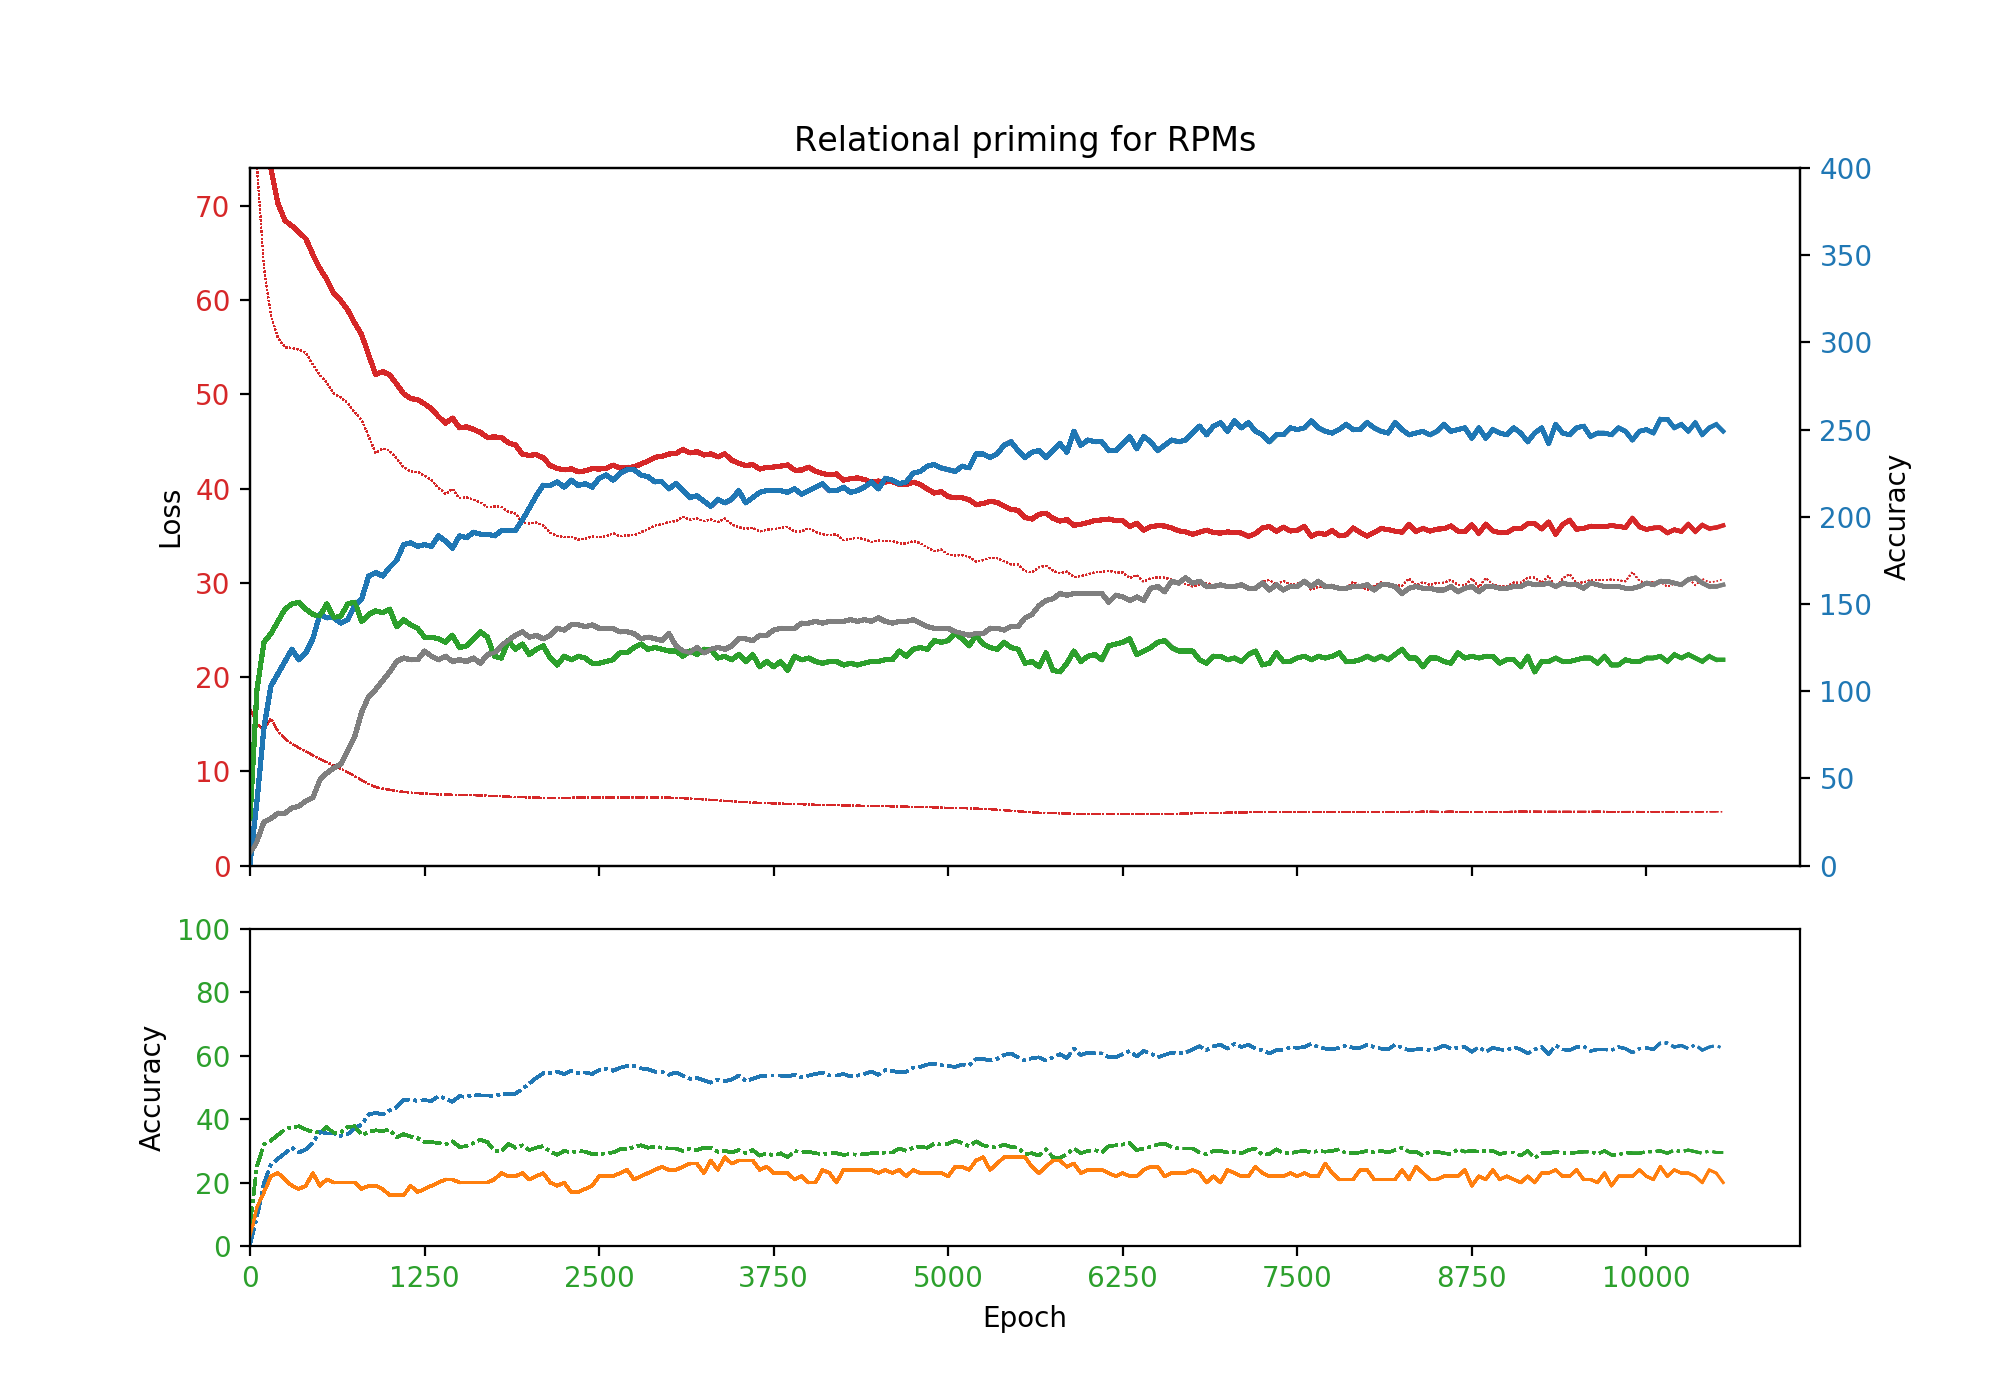
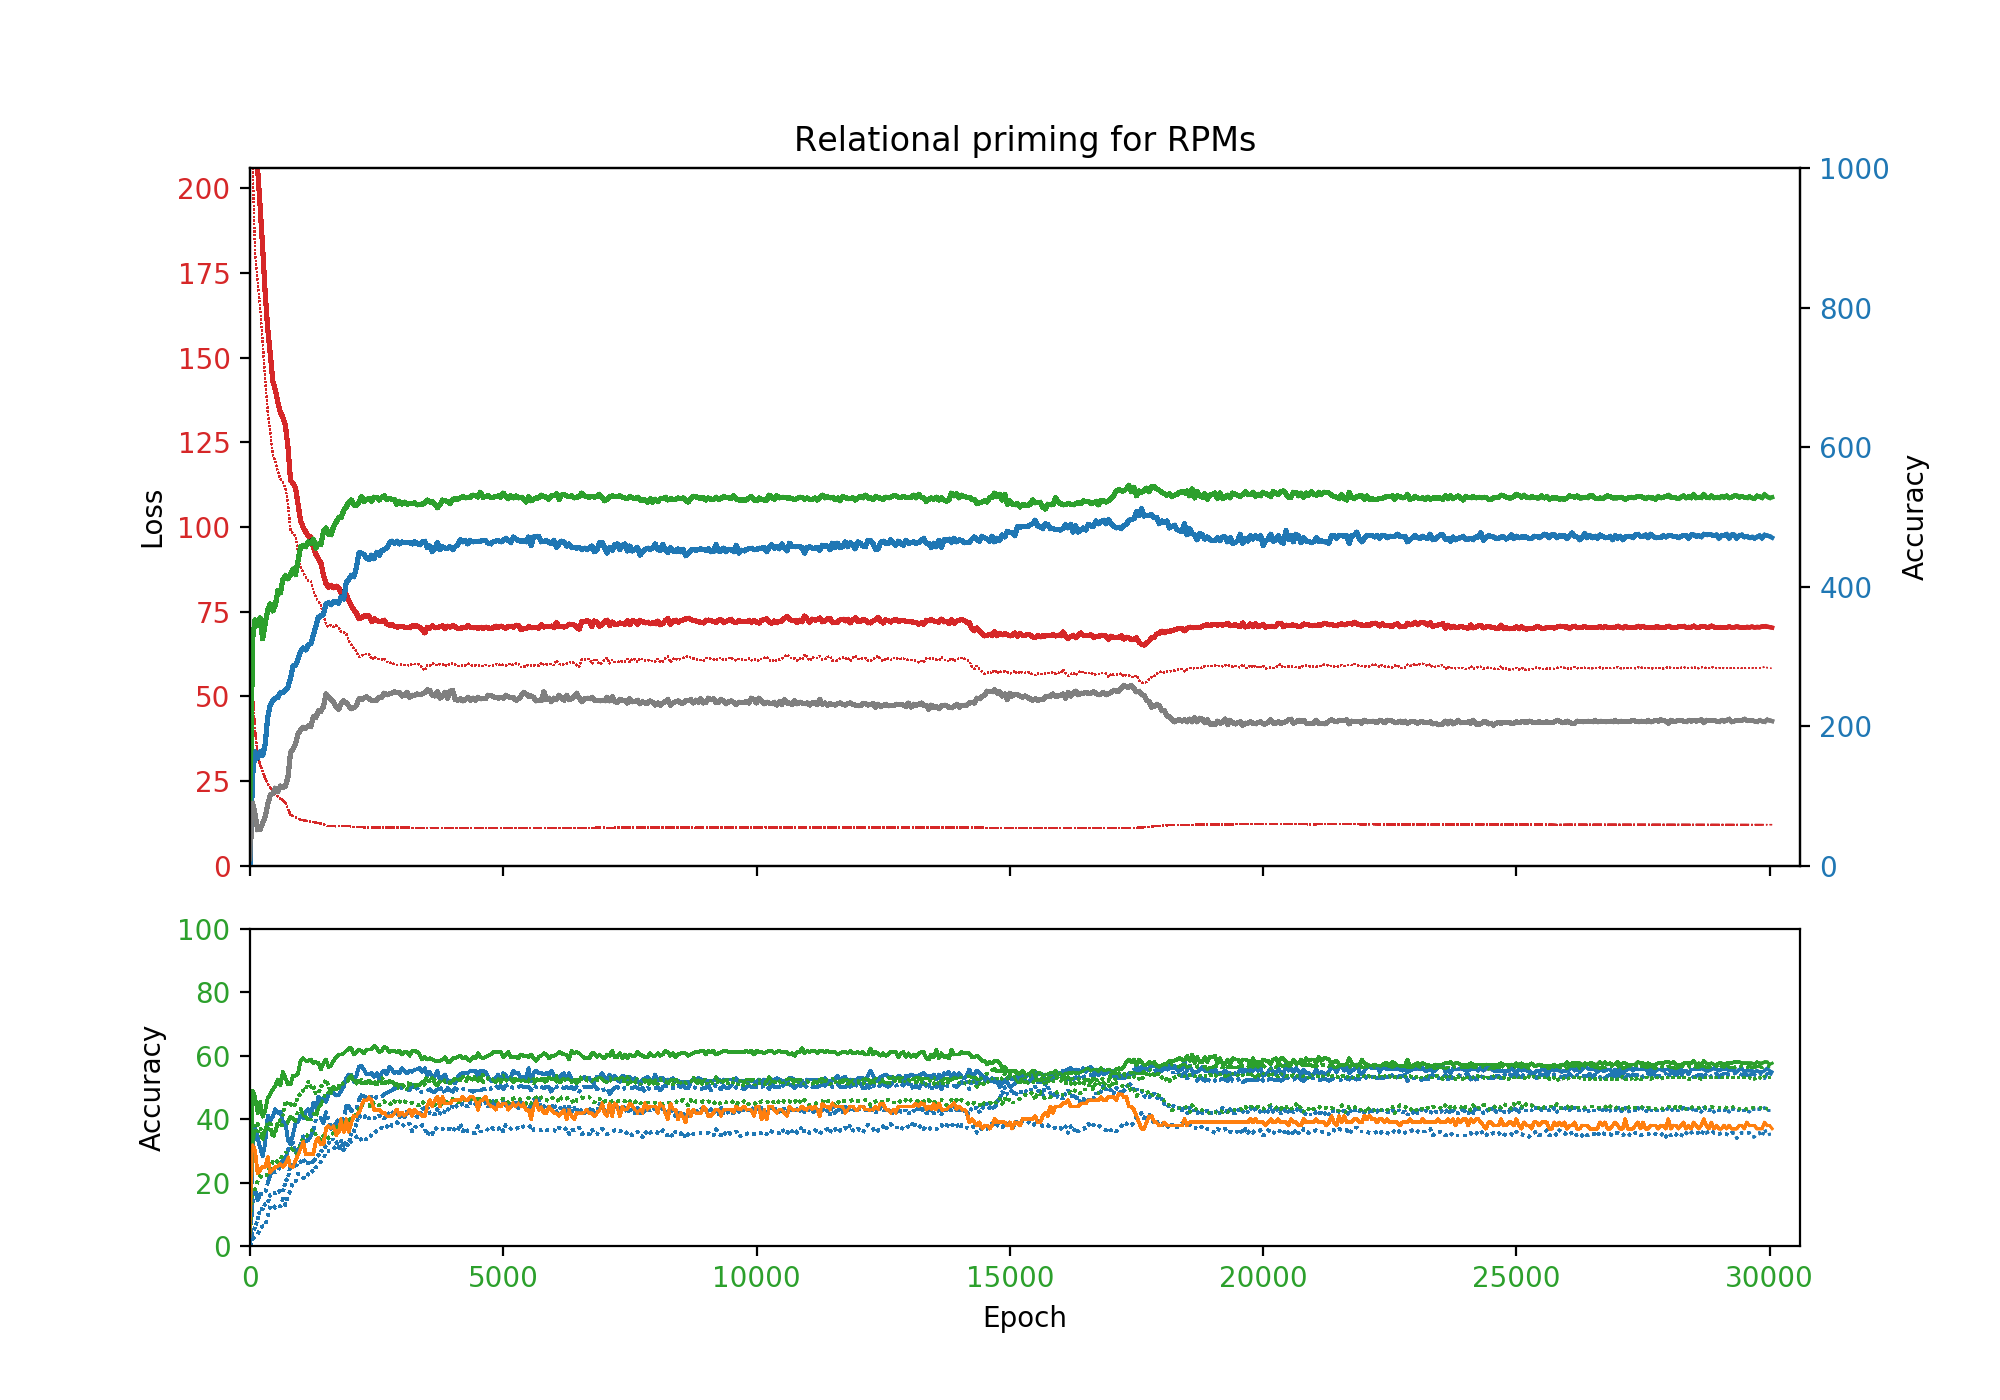
First attempt with multiple modification types.

diff --git a/RPM.py b/RPM.py
@@ -250,14 +250,14 @@ def collect_statistics(network: Network, E: np.ndarray, P: np.ndarray, A: np.nda
 
         for i, x in enumerate(num_correct_by_transformation):
             label = f'tby{i}'
-            data[label].append(e_analogies_by_num_modifications[i])
-            is_max_num_correct_by_transformation[i] = num_correct_by_transformation[i] > 0 and num_correct_by_transformation[i] == min(data[label])
+            data[label].append(num_correct_by_transformation[i])
+            is_max_num_correct_by_transformation[i] = num_correct_by_transformation[i] > 0 and num_correct_by_transformation[i] == max(data[label])
 
         correct_by_num_modifications = [f'{color_on(Fore.GREEN, x[2])}{x[0]}{color_off()}/{x[1]} {color_on(Fore.GREEN, x[2])}{100*x[0]/x[1] if x[1] > 0 else 0:.1f}%{color_off()}' for x in zip(num_correct_by_num_modifications, num_total_patterns_by_num_modifications, is_max_num_correct_by_num_modifications)]
         analogies_by_num_modifications = [f'{color_on(Fore.GREEN, x[2])}{x[0]}{color_off()}/{x[1]} {color_on(Fore.GREEN, x[2])}{100*x[0]/x[1] if x[1] > 0 else 0:.1f}%{color_off()}' for x in zip(num_analogies_correct_by_num_modifications, num_total_patterns_by_num_modifications, is_max_num_analogies_correct_by_num_modifications)]
         loss_by_num_modifications = [f'{color_on(Fore.RED, x[1])}{x[0]:.3f}{color_off()}' for x in zip(e_by_num_modifications, is_min_e_by_num_modifications)]
         loss_analogies_by_num_modifications = [f'{color_on(Fore.RED, x[1])}{x[0]:.3f}{color_off()}' for x in zip(e_analogies_by_num_modifications, is_min_e_analogies_by_num_modifications)]
-        correct_transformations_by_type = [f'{color_on(Fore.GREEN, x[2])}{x[0]}{color_off()}/{x[1]} {100*x[0]/x[1] if x[1] > 0 else 0:.1f}%' for x in zip(num_correct_by_transformation, num_total_transformations_by_type, is_max_num_correct_by_transformation)]
+        correct_transformations_by_type = [f'{color_on(Fore.GREEN, x[2])}{x[0]}{color_off()}/{x[1]} {color_on(Fore.GREEN, x[2])}{100*x[0]/x[1] if x[1] > 0 else 0:.1f}%{color_off()}' for x in zip(num_correct_by_transformation, num_total_transformations_by_type, is_max_num_correct_by_transformation)]
 
         print()
         print(f'Epoch      = {epoch} of {max_epochs}, Loss = {color_on(Fore.RED, e == min(E[1:]))}{e:.3f}{color_off()}, O/T = {color_on(Fore.RED, sum_o_error == min(data["o_error"]))}{sum_o_error:.3f}{color_off()}/{color_on(Fore.RED, sum_t_error == min(data["t_error"]))}{sum_t_error:.3f}{color_off()}, Terminating when < {min_error * len(patterns):.3f}')
@@ -278,26 +278,10 @@ def collect_statistics(network: Network, E: np.ndarray, P: np.ndarray, A: np.nda
                 # Do not present any transformation. Set the transformation to rest.
                 # Clamp input and output. Do not clamp transformation.
                 # Let the network settle.
-                t = target(p)
-                network.calculate_transformation(p, t)
+                prediction, actual = predict_double_column(network, p, a, transformation2)
 
-                # Now calculate the response of the primed network for new input a.
-                # Clamp input only. Set output to rest.
-                # Let the network settle.
-                r = network.calculate_response(a, is_primed = True) 
-
-                p2 = np.concatenate((t, transformation2))
-                a2 = np.concatenate((r, transformation2))
-
-                network.calculate_transformation(p2, target(p2))
-
-                #network.calculate_response(p2)
-                r2 = network.calculate_response(a2, is_primed = True)
-
-                t2 = target(np.concatenate([target(a), transformation2]))
-
-                loss_23 += calculate_error(r2, t2)
-                is_correct_23 = calculate_is_correct(r2, t2, candidates_for_pattern)
+                loss_23 += calculate_error(prediction, actual)
+                is_correct_23 = calculate_is_correct(prediction, actual, candidates_for_pattern)
                 if is_correct_23:
                     num_correct_23 += 1
 
@@ -305,6 +289,32 @@ def collect_statistics(network: Network, E: np.ndarray, P: np.ndarray, A: np.nda
             data['2by3_loss'].append(loss_23)
             print(f'2x3        = {color_on(Fore.GREEN, num_correct_23 == max(data["2by3"]))}{num_correct_23:>5}{color_off()}/{100:>5}')
             print(f'    Loss   = {color_on(Fore.RED, loss_23 == min(data["2by3_loss"]))}{loss_23:>11.3f}{color_off()}')        
+
+        if process_3_by_3:
+            #matrix, test, transformation1, transformation2, analogy
+            num_correct_33 = 0
+            loss_33 = 0
+            m, c, p11, t1, t2, a21, a31
+            patterns_33, analogies_row2_233, analogies_row3_33, transformations2, candidates = [np.concatenate((item[2], item[3])) for item in tuples_33], [np.concatenate((item[5], item[3])) for item in tuples_33], [np.concatenate((item[6], item[3])) for item in tuples_33], [item[4] for item in tuples_33], [item[5] for item in tuples_33], [item[1] for item in tuples_33]
+            #targets_2_by_3 = np.asarray([target(np.concatenate([target(a), t2])) for a, t2 in zip(analogies_33, transformations2)])
+            for p, a, transformation2, candidates_for_pattern in zip(patterns_33, analogies_33, transformations2, candidates):
+                # Prime the network, that is, present object p and output t.
+                # Do not present any transformation. Set the transformation to rest.
+                # Clamp input and output. Do not clamp transformation.
+                # Let the network settle.
+                prediction, actual = predict_double_column(network, p, a, transformation2)
+
+                loss_33 += calculate_error(prediction, actual)
+                is_correct_33 = calculate_is_correct(prediction, actual, candidates_for_pattern)
+                if is_correct_33:
+                    num_correct_33 += 1
+
+            data['3by3'].append(num_correct_33)
+            data['3by3_loss'].append(loss_33)
+            print(f'3x3        = {color_on(Fore.GREEN, num_correct_33 == max(data["3by3"]))}{num_correct_33:>5}{color_off()}/{100:>5}')
+            print(f'    Loss   = {color_on(Fore.RED, loss_33 == min(data["3by3_loss"]))}{loss_33:>11.3f}{color_off()}')        
+
+
 
         end = time.time()
         if epoch == 0:
@@ -317,6 +327,31 @@ def collect_statistics(network: Network, E: np.ndarray, P: np.ndarray, A: np.nda
         print(f'Total elapsed time = {total_time_elapsed}s')
 
         update_plots(E[1:], P[1:], A[1:], data, dynamic=True, statistics_frequency=statistics_frequency)
+
+def predict_double_column(network, p, a, tf):
+    # Prime the network, that is, present object p and output t.
+    # Do not present any transformation. Set the transformation to rest.
+    # Clamp input and output. Do not clamp transformation.
+    # Let the network settle.
+    t = target(p)
+    network.calculate_transformation(p, t)
+
+    # Now calculate the response of the primed network for new input a.
+    # Clamp input only (Leech) or input and primed transformation. Set output to rest.
+    # Let the network settle.
+    r = network.calculate_response(a, is_primed = True) 
+
+    p2 = np.concatenate((t, tf))
+    a2 = np.concatenate((r, tf))
+
+    # Prime again with the exemplars
+    network.calculate_transformation(p2, target(p2))
+
+    # Calculate response
+    r2 = network.calculate_response(a2, is_primed = True)
+
+    t2 = target(np.concatenate([target(a), transformation2]))
+    return r2, t2
 
 def setup_plots():
     fig1 = plt.figure(figsize=(10, 7))
@@ -414,15 +449,16 @@ def update_plots(E, P, A, data, dynamic=False, statistics_frequency=50):
 np.random.seed(0)
 
 # The patterns to learn
-n_sample_size = 400
+n_sample_size = 1000
 
 lexicon = Lexicon()
 
-tuples = [generate_rpm_2_by_2_matrix(lexicon, num_modification_choices=[1]) for x in range(1 * n_sample_size)]
-#tuples = [generate_sandia_matrix() for x in range(1 * n_sample_size)]
-#tuples = [x for x in generate_all_sandia_matrices(num_modifications = [0, 1, 2], include_shape_variants=False)]
+tuples = [generate_rpm_2_by_2_matrix(lexicon, num_modification_choices=[0,1,2,3]) for x in range(1 * n_sample_size)]
 
 tuples_23 = [generate_rpm_2_by_3_matrix(lexicon) for x in range(1 * 100)]
+
+tuples_33 = [generate_rpm_3_by_3_matrix(lexicon) for x in range(1 * 100)]
+
 
 #patterns are the training set
 #analogies are the test set

diff --git a/CHL.py b/CHL.py
@@ -290,7 +290,7 @@ class Network:
         self.set_inputs(p)
         clamps = ['input', 'transformation']
         if is_primed:
-            if self.config.strict_leech:
+            if False and self.config.strict_leech:
                 clamps = ['input']
                 # Not sure about this. Why not leave the primed transformation input?
                 self.reset_transformation_to_rest()
@@ -308,7 +308,7 @@ class Network:
         self.reset_outputs_to_rest()
         self.activation(clamps = ['input', 'transformation'])
         if self.config.strict_leech:
-            self.activation(clamps = [])
+            self.activation(clamps = [], max_cycles=1)
 
 
     def unlearn_t(self, p: np.ndarray):
